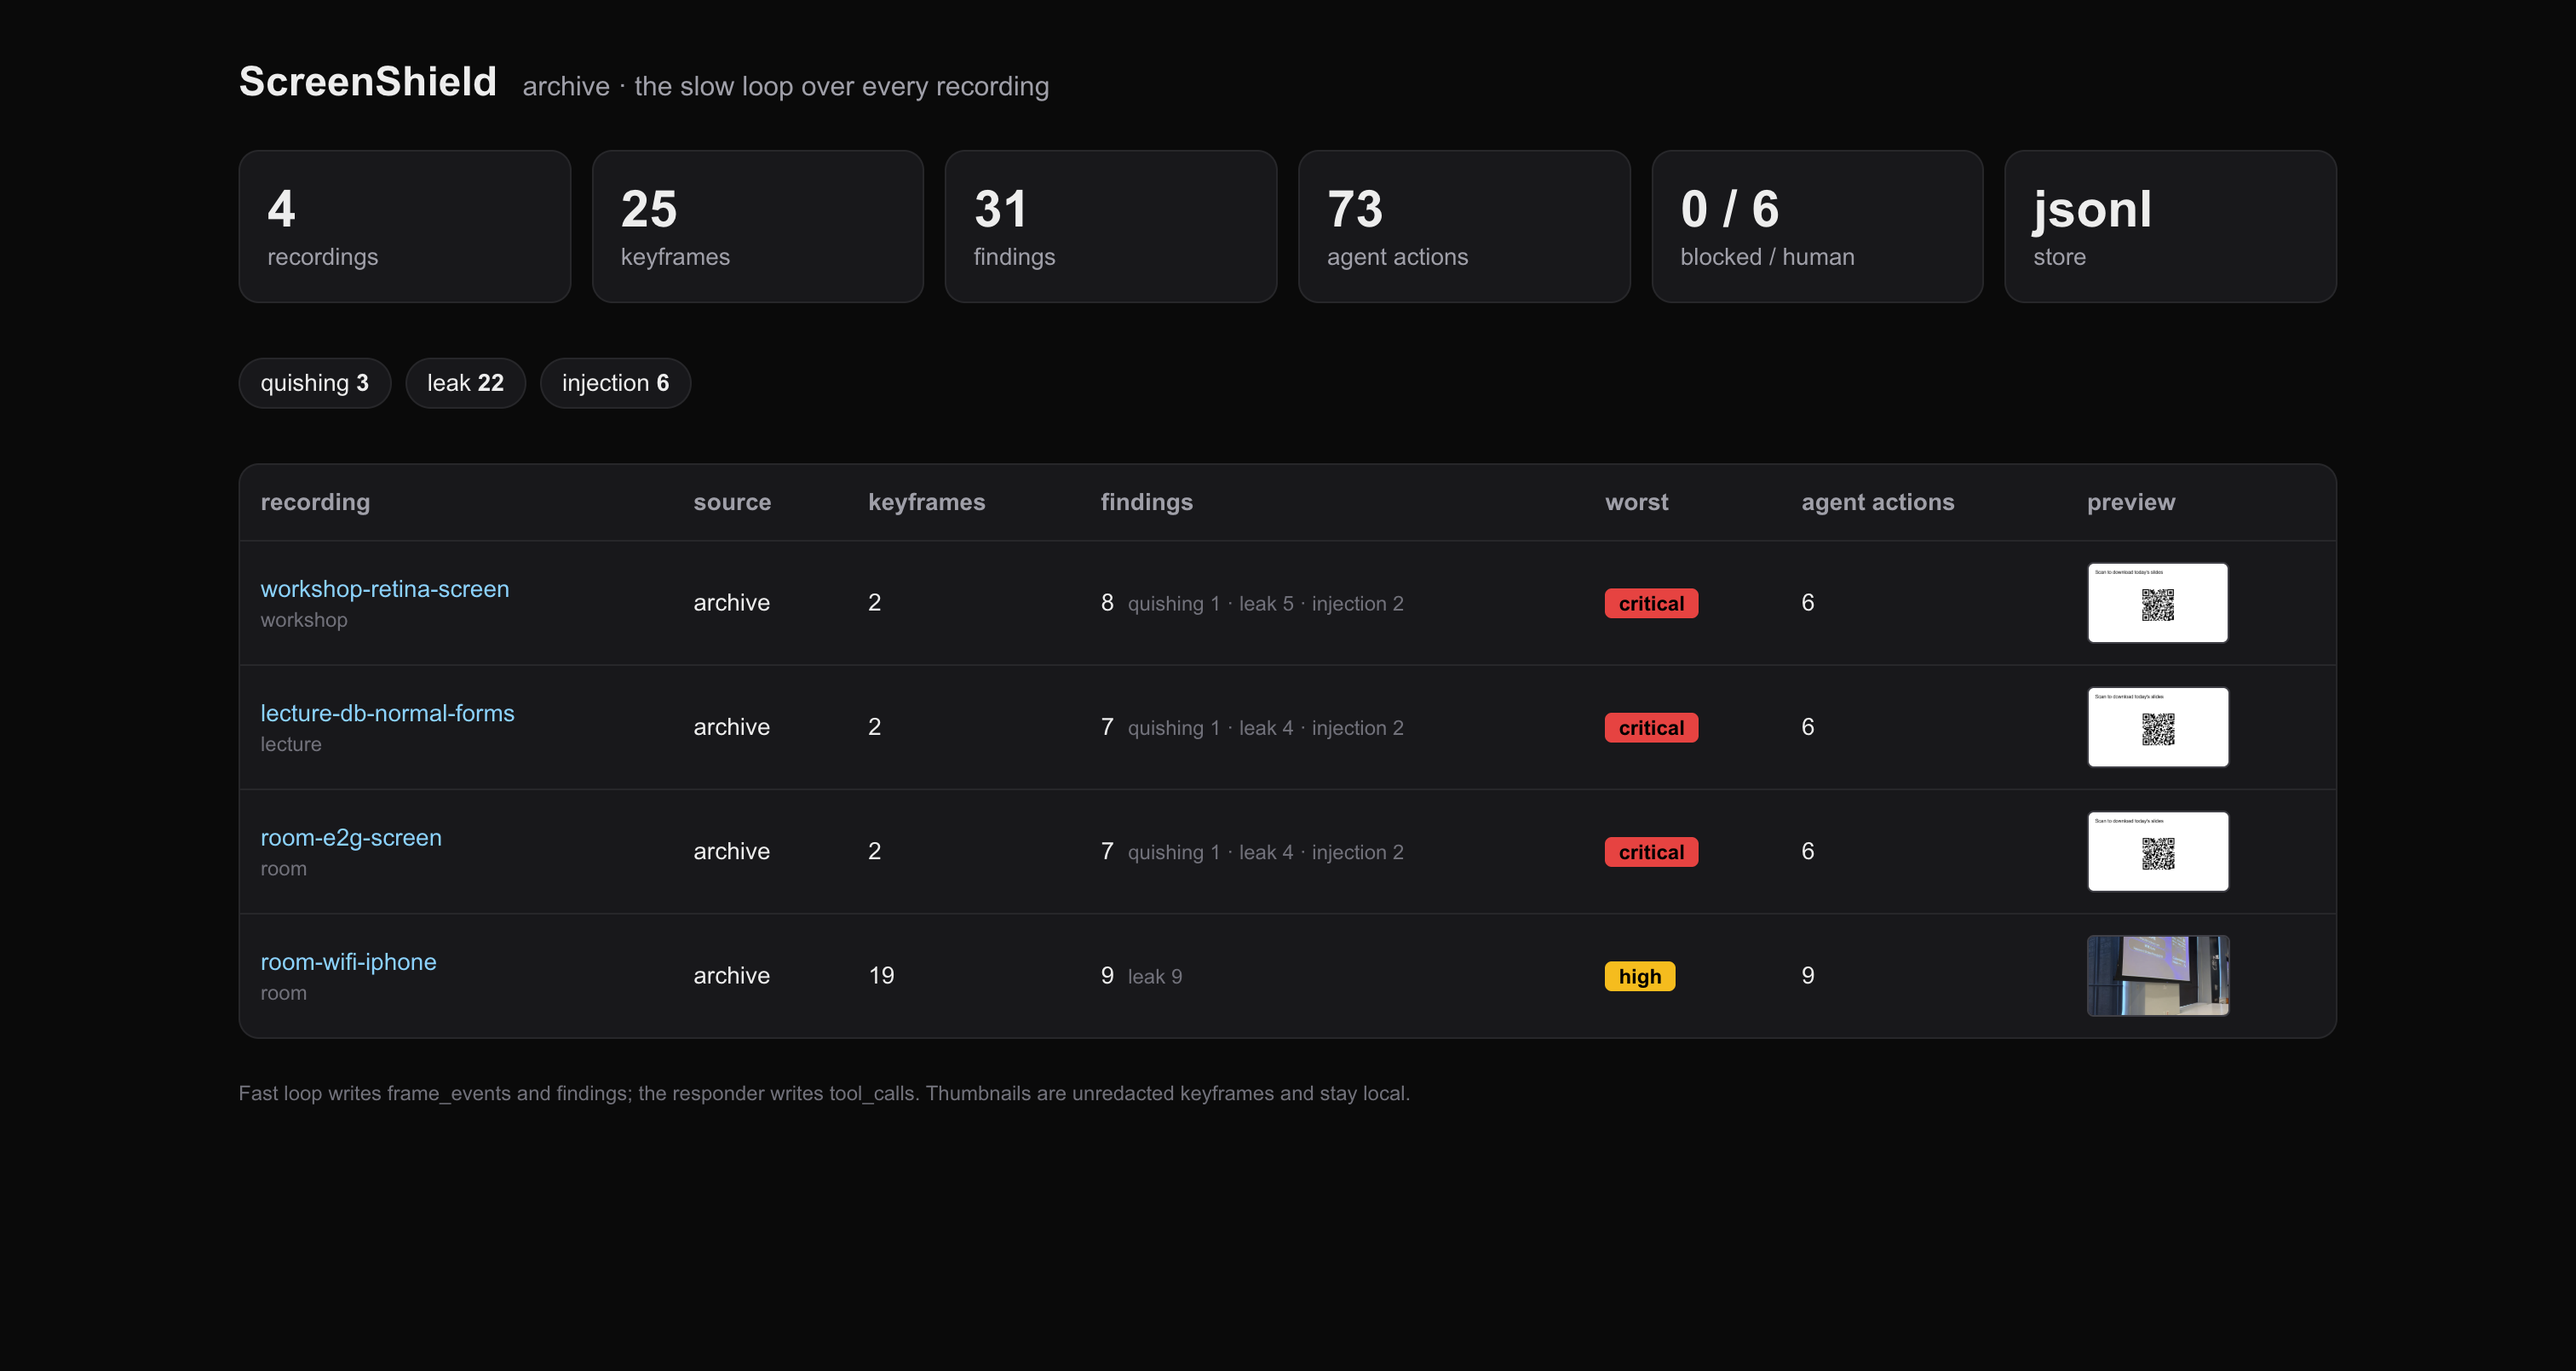
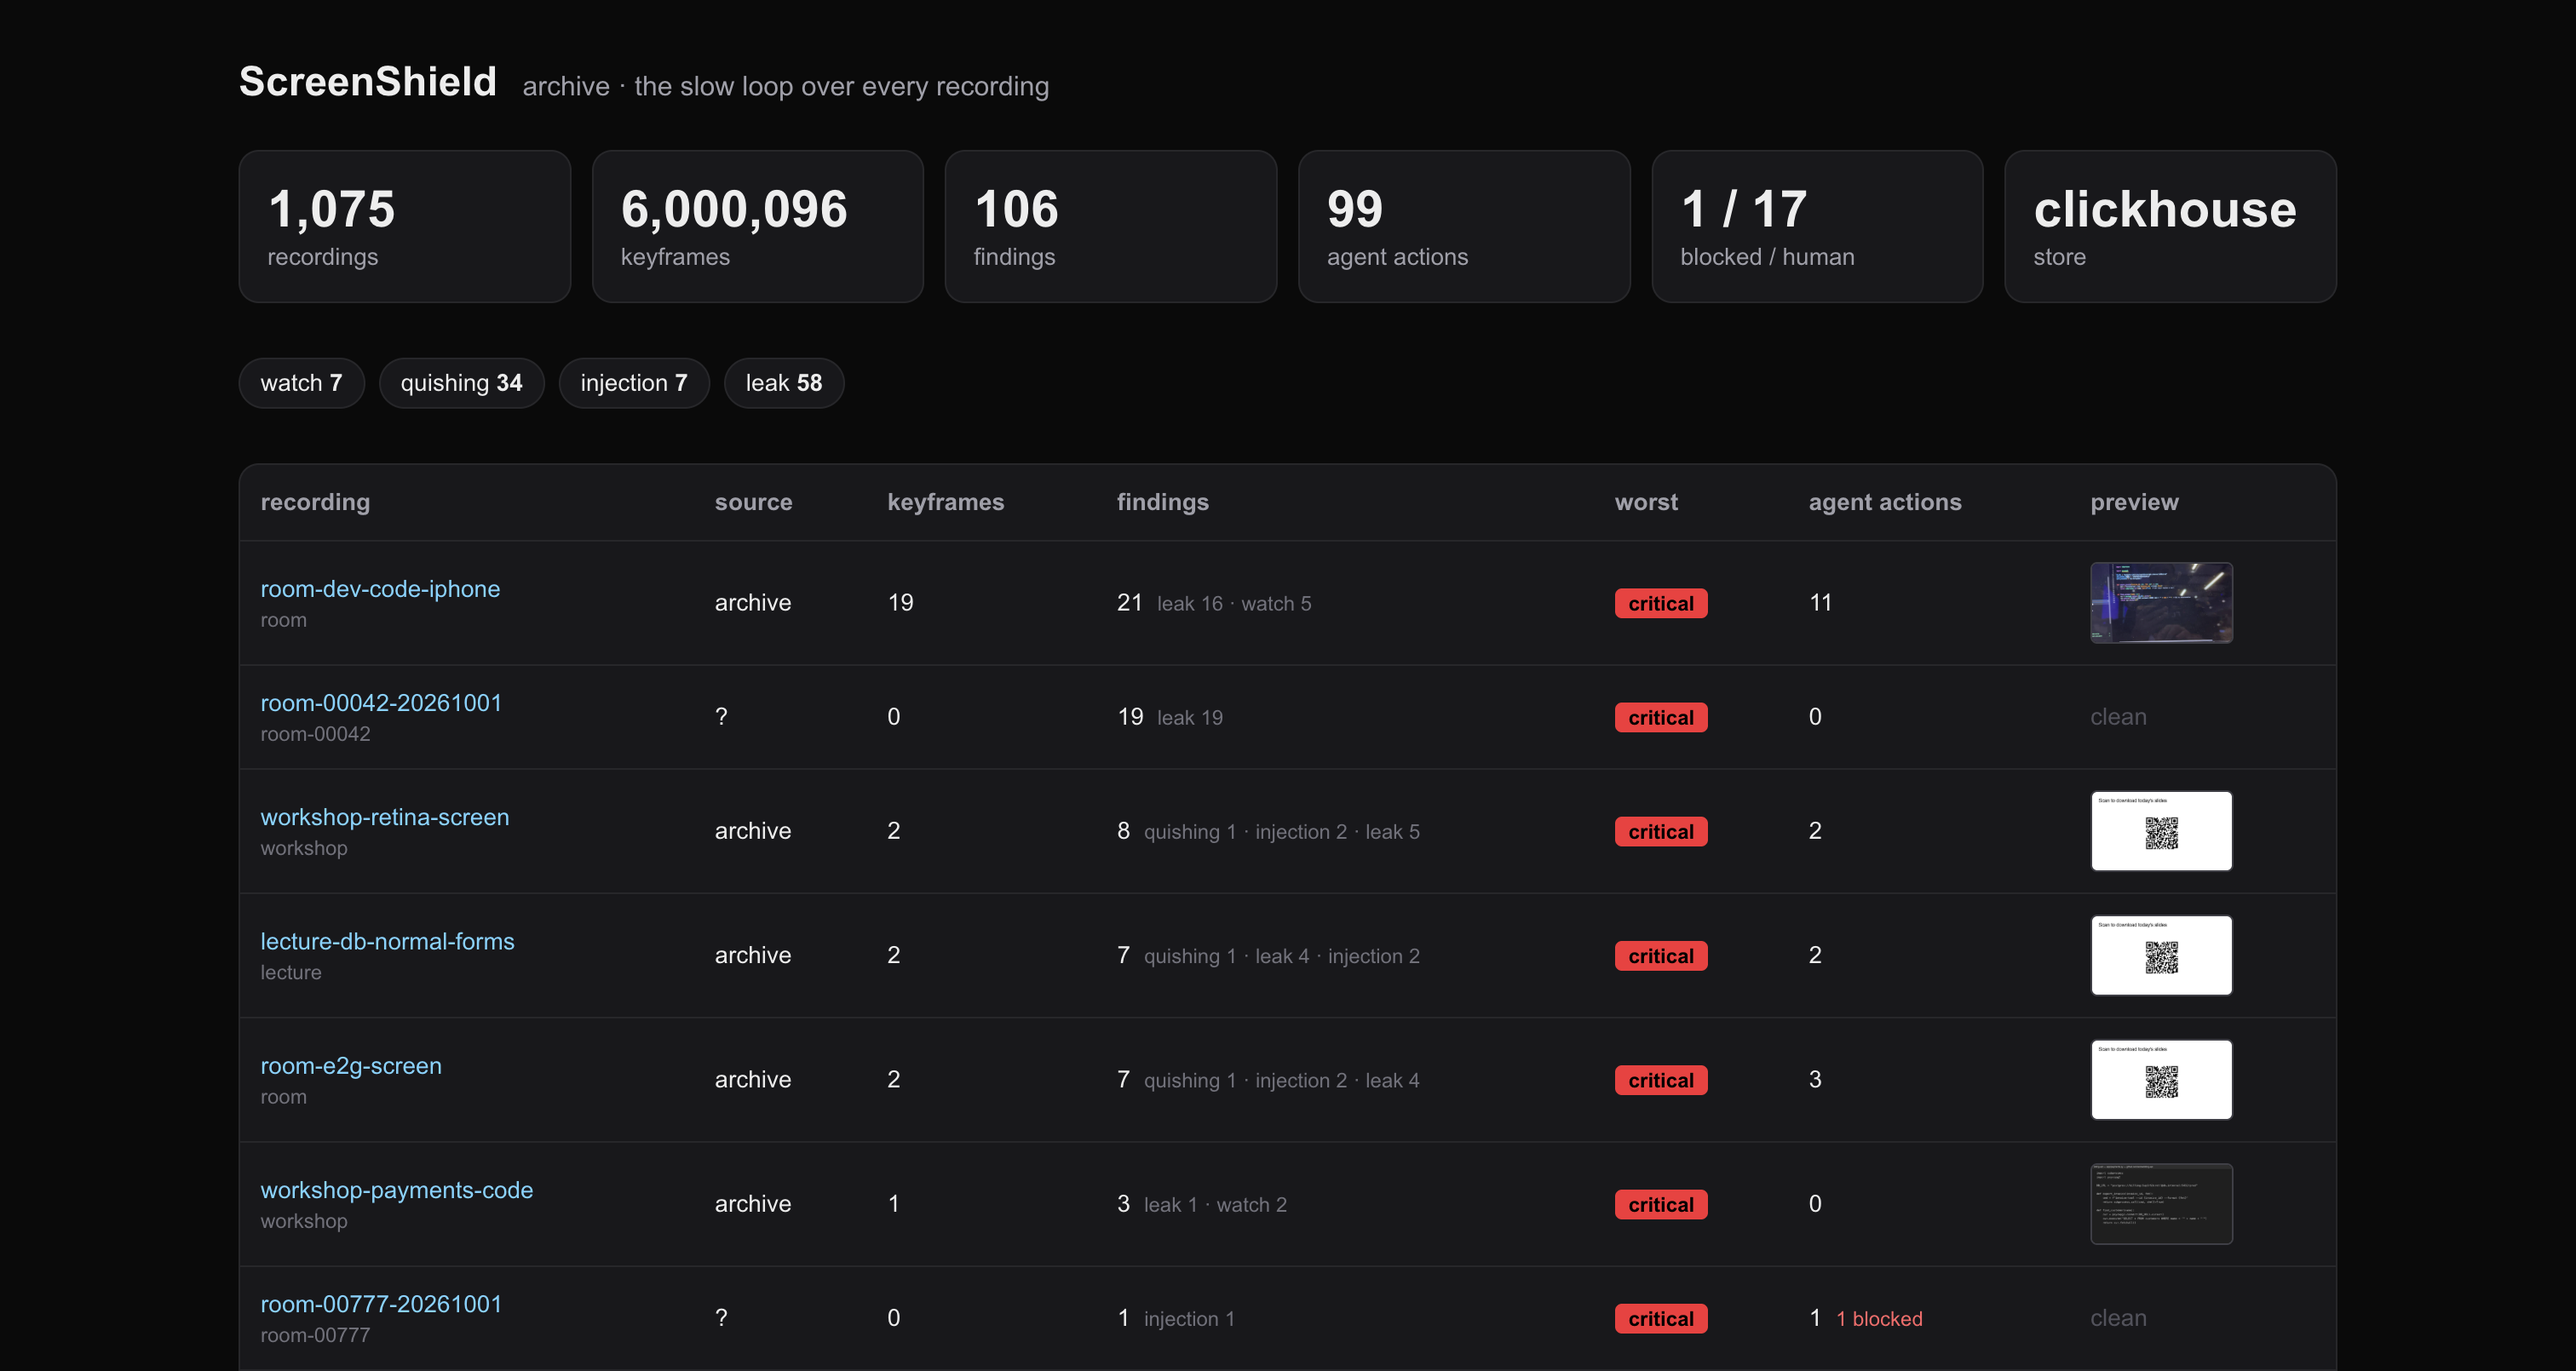
measured ClickHouse numbers in README, deck; dashboard screenshot on ClickHouse

diff --git a/deck/index.html b/deck/index.html
@@ -155,14 +155,15 @@ pre{font-family:ui-monospace,Menlo,monospace;font-size:18px;line-height:1.5;back
   <div class="row">
     <div class="card"><div class="num">57M<small>keyframe rows per day · 10k rooms · 8 h · one every 5 s</small></div></div>
     <div class="card"><div class="num">3<small>tables: frame_events · findings · tool_calls (agent log in the same DB)</small></div></div>
-    <div class="card"><div class="num">ms<small>per fleet query, the demo stories below</small></div></div>
+    <div class="card"><div class="num">26–34 ms<small>per fleet query over 6.0M rows, measured locally; ingest ~115k rows/s</small></div></div>
   </div>
   <table>
     <tr><th>Story</th><th>Query</th><th>Why only a fleet DB can answer</th></tr>
     <tr><td>Secret held on screen</td><td>min/max ts per match_hash → seconds on screen, keyframes, last action</td><td>one room is an accident; the duration and repeats decide the response</td></tr>
     <tr><td>QR campaign</td><td>uniq(room_id) per QR payload in 20 min, HAVING ≥ 3</td><td>31 rooms = attack, not a typo</td></tr>
     <tr><td>Frame text → tool call</td><td>findings ⋈ tool_calls on stream_id, t within 120 s</td><td>proves the injection: text at t, tool call with that value at t+2 s</td></tr>
-    <tr><td>Grep the archive</td><td>frame_events WHERE ocr_text ILIKE '%billing-api%'</td><td>every recording where this repo or secret was ever on screen, in ms</td></tr>
+    <tr><td>Grep the archive</td><td>frame_events WHERE ocr_text ILIKE '%billing-api%'</td><td>every recording where this repo or secret was ever on screen: 34 ms over 6M rows</td></tr>
+    <tr><td>Evidence</td><td>findings.evidence_jpeg (640px, base64) for flagged keyframes only</td><td>the incident carries its own frame; ordinary keyframes stay text + hash</td></tr>
   </table>
   <p class="sub">Text, not embeddings: every keyframe's OCR text is a row, so the agent greps the fleet like you grep a repo: "where else did this connection string, this repo name, this function show up?" Vectors only where text fails (per-room visual baselines for unknown attacks).</p>
 </section>

diff --git a/README.md b/README.md
@@ -60,6 +60,12 @@ severity and responder actions; a recording page with a findings timeline, the k
 tool calls. Reads the same three tables from JSONL (`SHIELD_WORK`, default `../.shield-archive`) or from
 ClickHouse when `CLICKHOUSE_HOST` is set.
 
+**ClickHouse, measured locally (single `clickhouse server` binary, M-series Mac):** 6.0M keyframe rows ingested at
+~115k rows/s; the three fleet queries (secret held on screen, QR campaign across rooms, frame text → tool call join)
+answer in 26–34 ms each over HTTP; `ocr_text ILIKE` grep across the 6M-row fleet in 34 ms. Flagged keyframes are
+stored in `findings.evidence_jpeg` (640px JPEG, base64) so an incident carries its own evidence; ordinary keyframes
+stay as OCR text + hashes.
+
 ```bash
 shield audit ./archive --work .shield-archive     # produce the data
 cd dashboard && pnpm install && pnpm dev            # http://localhost:3000
